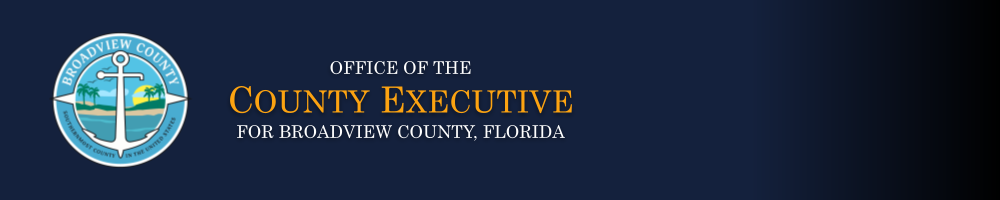
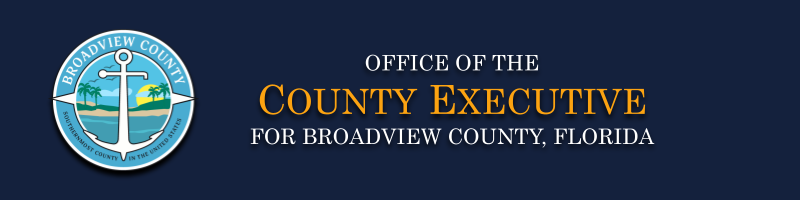
header final fix?

diff --git a/index.html b/index.html
@@ -18,13 +18,13 @@
   <header>
     <div class="header-container">
       <section>
-        <div class="row" style="padding-top: 0; padding-bottom: 0;">
+        <div class="row" style="padding-top: 0; padding-bottom: 0; position: relative;">
           <div class="leftcolumn">
             <div class="logo">
               <img src="assets/images/Header.png" alt="Header Image">
             </div>
           </div>
-          <div class="rightcolumn" style="margin-top: 40px;">
+          <div class="rightcolumn" style="position: absolute;top: 50%;left: 100%;transform: translate(-100%,-50%);width: 100%;">
             <div class="topnav">
               <a href="/">HOME</a>
               <a href="/press-releases">PRESS RELEASES</a>

diff --git a/assets/css/style.css b/assets/css/style.css
@@ -38,7 +38,6 @@ a:active {
 
 .header-container {
   background-color: #14213d;
-  display: flex;
   align-items: center;
 }
 
@@ -61,18 +60,18 @@ a:active {
 }
 
 .logo img {
-  max-height: 100%;
-  max-width: 100%;
   display: block;
 }
 
 .topnav {
-  width: 1450px;
-  margin-left: 100%;
   position: absolute;
   top: 50%;
+  left: 100%;
   transform: translate(-100%, -50%);
-  overflow: hidden;
+  width: 100%;
+  display: flex;
+  flex-wrap: nowrap;
+  justify-content: flex-end;
 }
 
 .topnav a {
@@ -113,6 +112,8 @@ section.hero {
   max-width: 70%;
   margin: auto;
   overflow: hidden;
+  padding-top: 20px;
+  padding-bottom: 20px;
 }
 
 .leftcolumn {   
